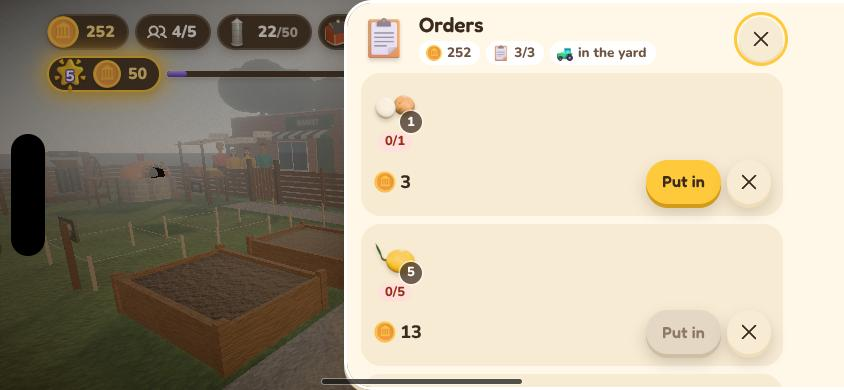
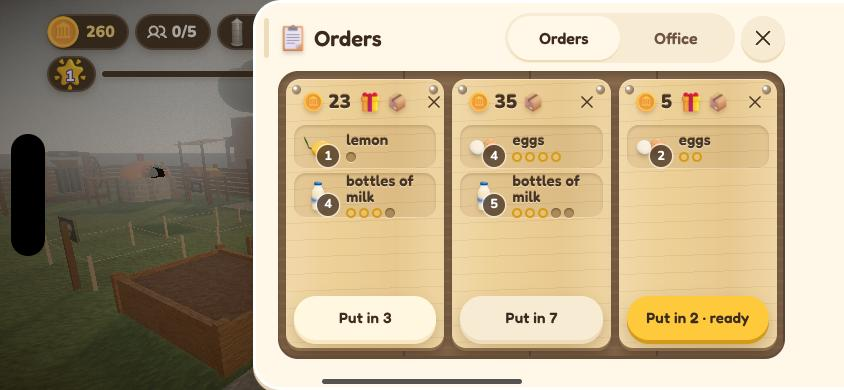
Lab map: the order board as the game has it now, and the map's pictures wait for play as the tests do
The orders screen's pictures are taken again from the game (the wooden board, upright and sideways), its entry says
it is in the game and what is still missing (Show me), and the goals entry names round 4. The map's pictures waited
for a room, which a new farm (outdoors on the farm since the two maps) never has: they wait for play as the tests do.

Claude-Session: https://claude.ai/code/session_01GSFjGHXrugxPciUhGZD2yi

diff --git a/lab/map.ts b/lab/map.ts
@@ -217,7 +217,7 @@ export const MAP: { summary: string; screens: Screen[] } = {
       grade: 'fix',
       works: 'כל מטרה כמו הזמנה: תמונה, מה לעשות, פס התקדמות ומה היא נותנת.',
       wrong: ['שש שורות דומות, כולן ב־0 – אף אחת לא "הבאה בתור".', 'הפרס (מטבעות וחומר בניין) קטן בצד, בלי מילה.', 'כשמטרה מושגת יש רק כפתור Claim ירוק – אין רגע.'],
-      idea: 'נבחר E: זרקור ומדבקות עם נעיצה לראש המסך; מדבקה שנלחצת גדלה והופכת לזרקור.',
+      idea: 'E (נבחר) בסיבוב 4: כל פרס בתוך הכרטיס שלו, הזרקור עם הפרס בסוף הפס, מדבקה מתחלפת רק עם הזרקור, ו־Claim all. ועוד רפרנס, F: ארון המדליות – מתכת לכל מדרגה ומדליה שמסתובבת באיסוף.',
       priority: 2,
       board: 'goals',
     },
@@ -237,17 +237,12 @@ export const MAP: { summary: string; screens: Screen[] } = {
       id: 'orders',
       name: 'לוח ההזמנות',
       area: 'חלונות',
-      where: 'src/farm/OrdersPanel.tsx',
-      grade: 'fix',
-      works: 'כל הזמנה: מה היא רוצה, כמה כבר נכנס, כמה היא משלמת והפתעה.',
-      wrong: [
-        'שלושה כפתורי "Put in" צהובים – שלושה דברים ראשיים במסך אחד.',
-        'כל מוצר מראה שני מספרים (7 על התמונה ו־0/7 מתחת).',
-        'השדרוגים בתחתית, מתחת לגלילה ומתחת לפס הבית.',
-        'לרוחב רואים הזמנה וחצי בכל פעם: כל כרטיס גבוה ורובו ריק.',
-      ],
-      idea: 'נבחר E: לוח העץ – קרש לכל הזמנה, יתדות שמתמלאות, Put in ואז Send, ומאיפה כל מוצר מגיע; לשונית Office שקונה עם כרטיס.',
-      priority: 2,
+      where: 'src/farm/orderBoard/OrdersBoard.tsx',
+      grade: 'good',
+      works: 'במשחק מסיבוב 4 (E, לוח העץ): קרש לכל הזמנה, יתדות שמתמלאות, Put in אחד ואז Send, מאיפה כל מוצר מגיע, ולשונית Office שקונה עם כרטיס.',
+      wrong: ['"Show me" (ללכת למקום שממנו מגיע מוצר) עוד חסר: המשחק צריך לדעת לאן ללכת לכל מוצר.'],
+      idea: 'נבחר E ונכנס למשחק. הבא: "Show me" כשהמשחק ידע ללכת לשם.',
+      priority: 3,
       board: 'orders',
     },
     {
